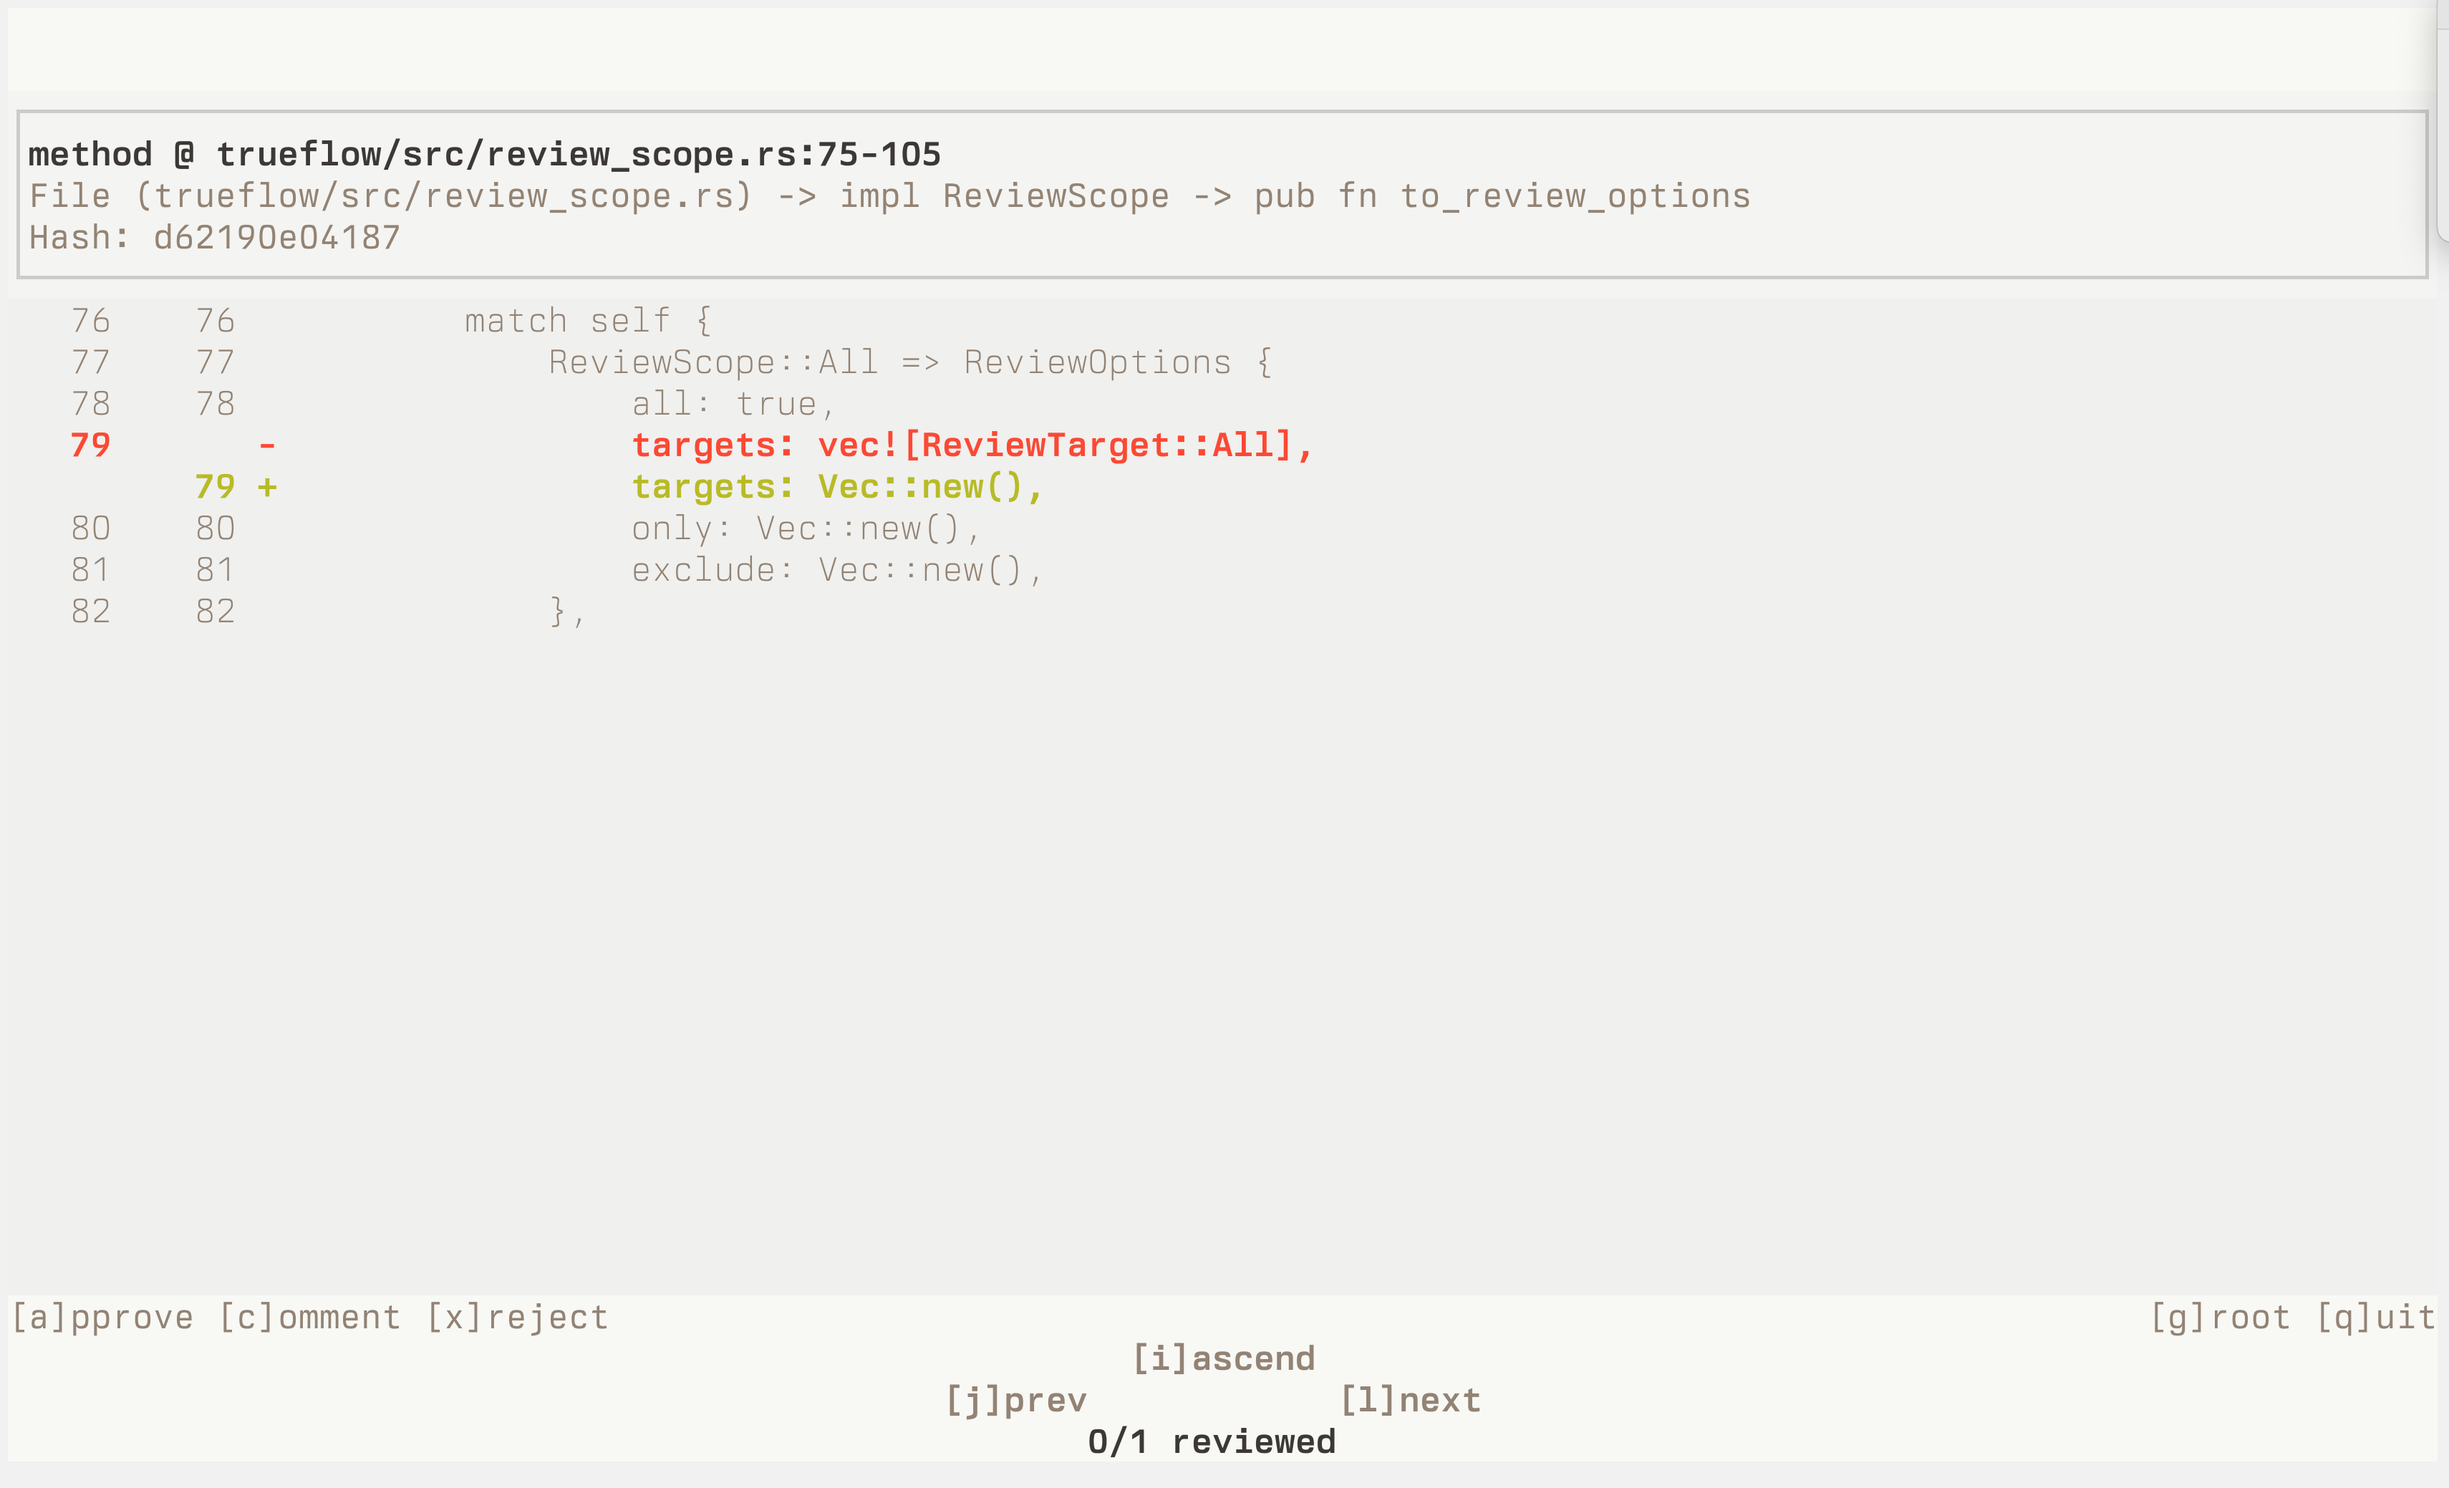
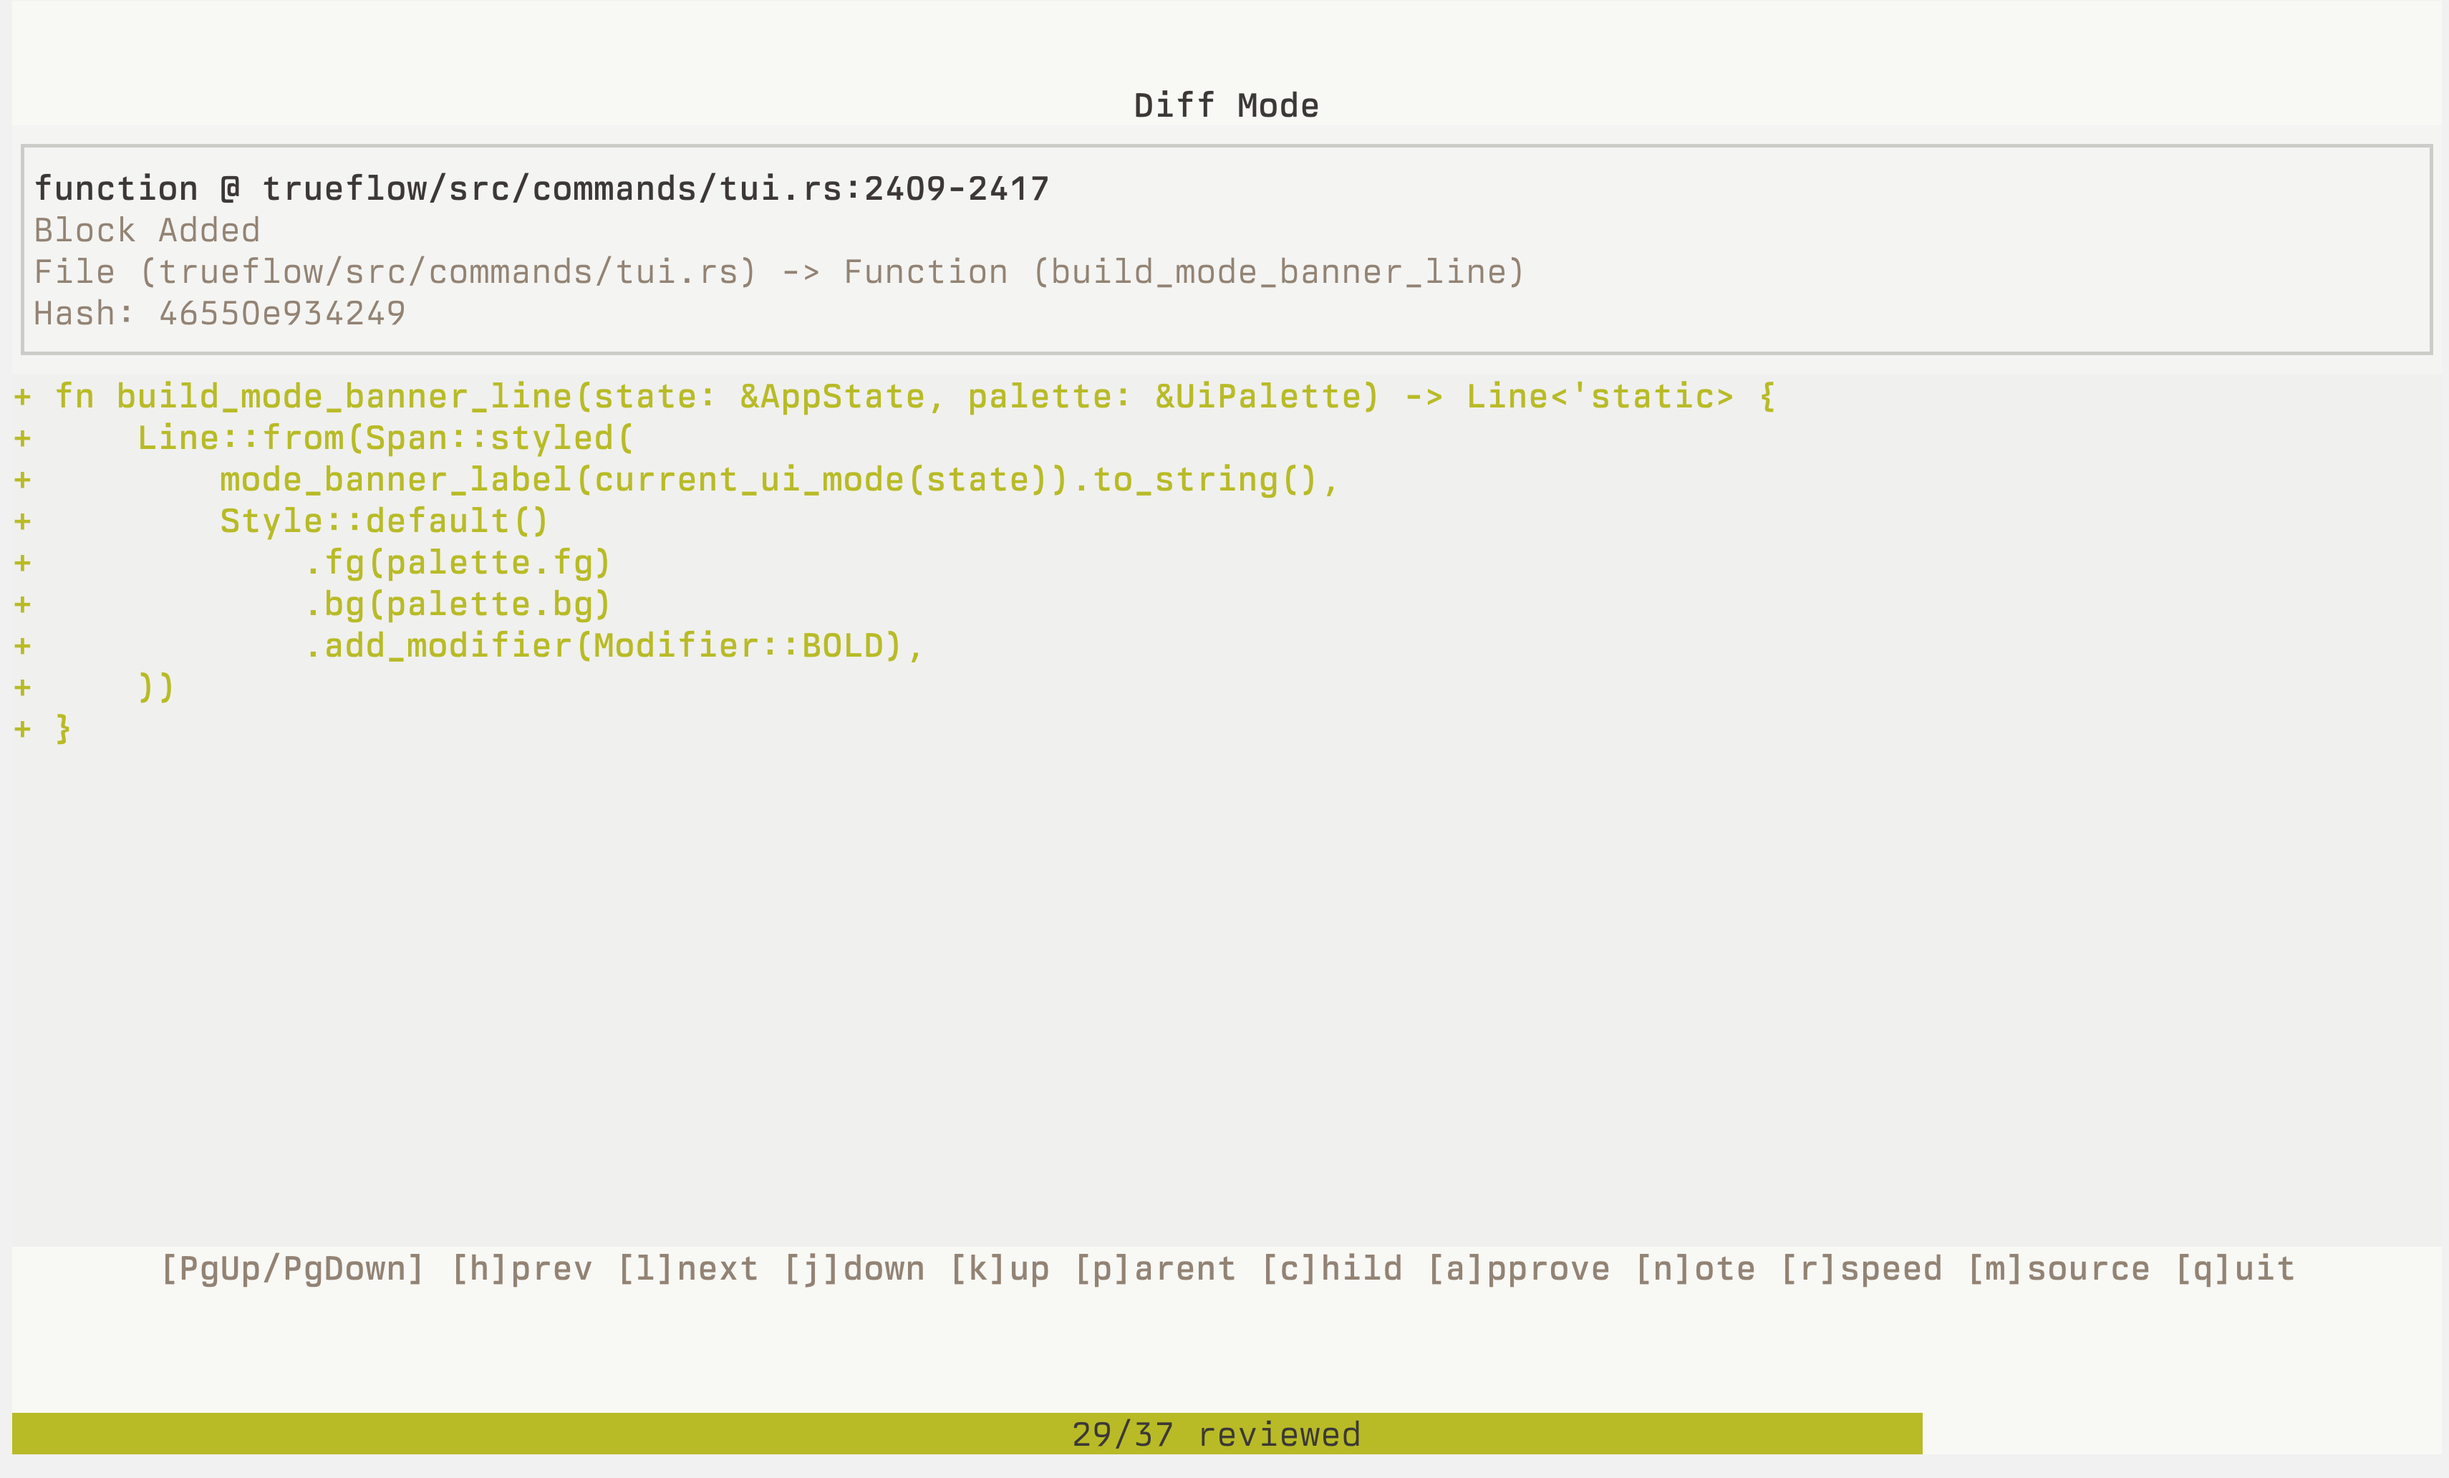
Sync website screenshot asset with repo screenshot

diff --git a/trueflow/tests/website_landing_page.rs b/trueflow/tests/website_landing_page.rs
@@ -14,6 +14,11 @@ fn read_repo_file(relative_path: &str) -> Result<String> {
         .with_context(|| format!("failed to read {}", path.display()))
 }
 
+fn read_repo_bytes(relative_path: &str) -> Result<Vec<u8>> {
+    let path = repo_root()?.join(relative_path);
+    fs::read(&path).with_context(|| format!("failed to read {}", path.display()))
+}
+
 fn assert_contains(haystack: &str, needle: &str, context: &str) {
     assert!(
         haystack.contains(needle),
@@ -149,6 +154,20 @@ fn website_about_page_mentions_jordan_mcqueen_and_personal_site() -> Result<()> 
     assert_contains(&install_html, "href=\"/about/\"", "install page about link");
     assert_contains(&edge_router, "request.uri === \"/about\"", "about clean path rewrite");
     assert_contains(&edge_router, "request.uri = \"/about/index.html\"", "about index rewrite");
+
+    Ok(())
+}
+
+#[test]
+fn website_screenshot_asset_matches_repo_screenshot() -> Result<()> {
+    let repo_screenshot = read_repo_bytes("tui.png")?;
+    let website_screenshot = read_repo_bytes("website/assets/tui.png")?;
+
+    assert_eq!(
+        website_screenshot,
+        repo_screenshot,
+        "expected website/assets/tui.png to match repo-root tui.png",
+    );
 
     Ok(())
 }
